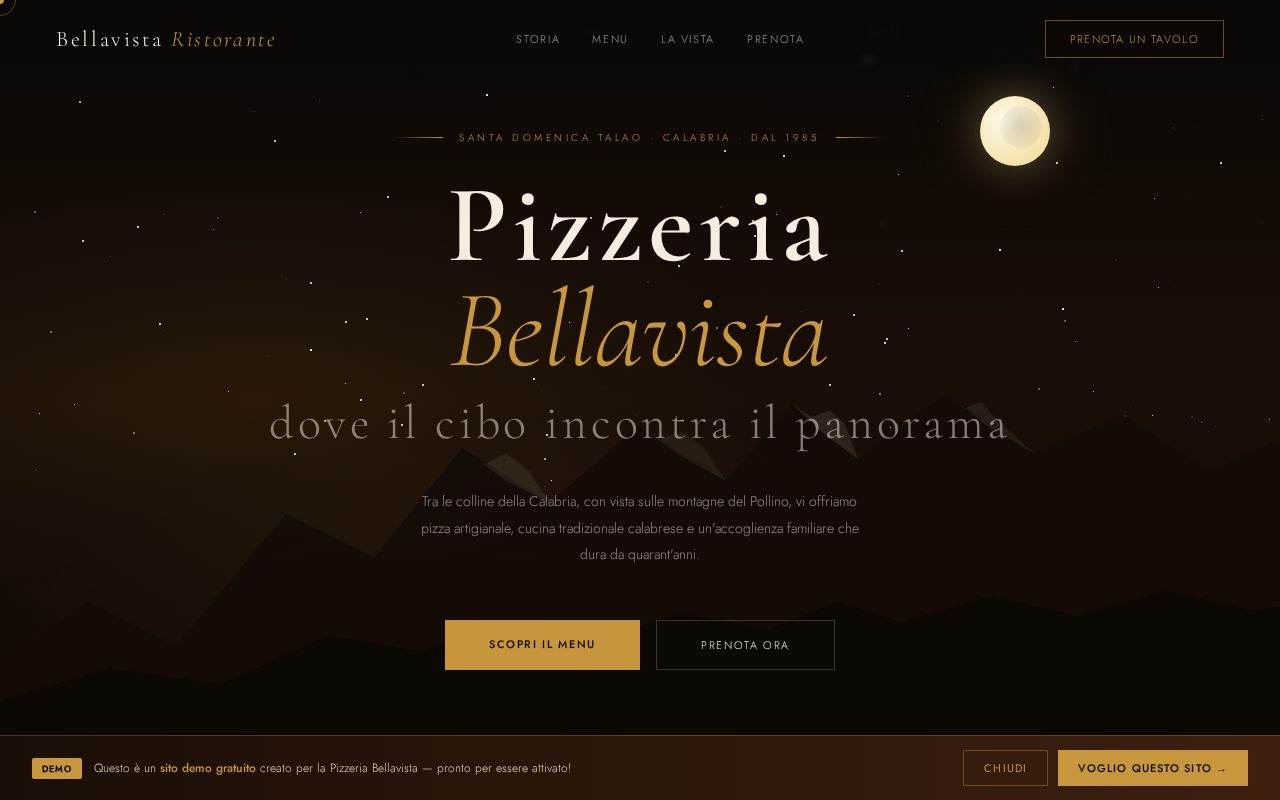
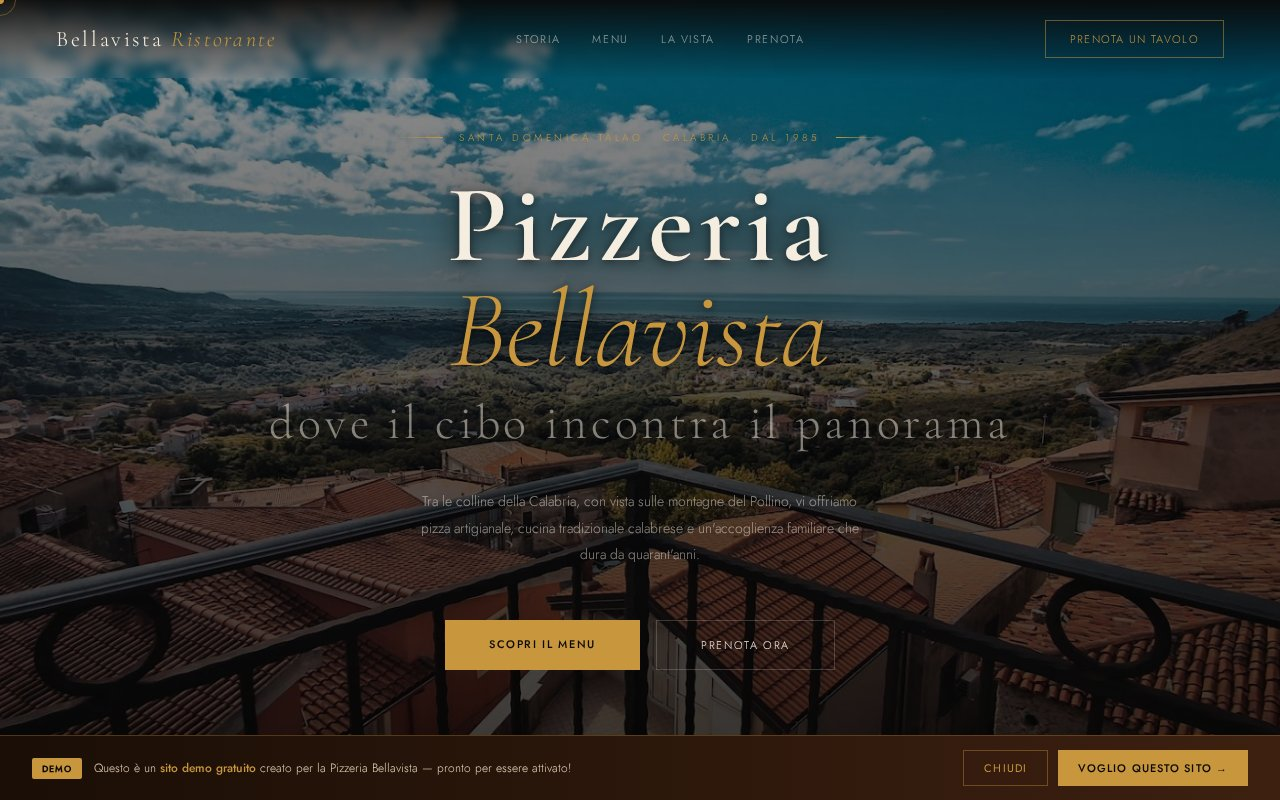
bellavista: real photo hero (Google Places) + ken burns, remove SVG mountain/moon

diff --git a/bellavista/index.html b/bellavista/index.html
@@ -57,11 +57,13 @@ nav{
 }
 .hero-bg{
   position:absolute;inset:0;
-  background:
-    radial-gradient(ellipse 100% 80% at 50% 100%,rgba(139,69,19,.25) 0%,transparent 60%),
-    radial-gradient(ellipse 80% 60% at 20% 50%,rgba(200,150,60,.08) 0%,transparent 50%),
-    linear-gradient(180deg,#0A0806 0%,#1A0E06 50%,#0A0806 100%);
+  background:url('bellavista-photos/hero.jpg') center center/cover no-repeat;
+  will-change:transform;
+  animation:kenburns 25s ease-in-out infinite alternate;
 }
+@keyframes kenburns{0%{transform:scale(1) translate3d(0,0,0)}100%{transform:scale(1.1) translate3d(-1.5%,-1%,0)}}
+@media(prefers-reduced-motion:reduce){.hero-bg{animation:none}}
+.hero-bg::after{content:'';position:absolute;inset:0;background:linear-gradient(to bottom,rgba(0,0,0,.4) 0%,rgba(0,0,0,.6) 40%,rgba(0,0,0,.75) 100%);pointer-events:none}
 
 /* Mountain silhouette SVG */
 .mountain{position:absolute;bottom:0;left:0;right:0;height:55%;pointer-events:none}
@@ -102,8 +104,12 @@ nav{
   font-size:clamp(52px,9vw,110px);
   font-weight:300;line-height:.95;
   margin-bottom:12px;
+  text-shadow:0 4px 30px rgba(0,0,0,.7),0 2px 10px rgba(0,0,0,.5);
   opacity:0;animation:fadeup .9s ease .5s forwards;
 }
+.hero-sub-name{text-shadow:0 4px 30px rgba(0,0,0,.7)}
+.hero-eyebrow{text-shadow:0 2px 15px rgba(0,0,0,.6)}
+.hero-desc{text-shadow:0 2px 15px rgba(0,0,0,.6)}
 .hero-title em{font-style:italic;color:var(--gold);display:block}
 .hero-title strong{font-weight:600;letter-spacing:.05em}
 
@@ -396,21 +402,6 @@ footer{
 <!-- HERO -->
 <section class="hero">
   <div class="hero-bg"></div>
-
-  <!-- Stars -->
-  <div class="stars" id="stars"></div>
-  <div class="moon"></div>
-
-  <!-- Mountain SVG -->
-  <svg class="mountain" viewBox="0 0 1440 400" fill="none" xmlns="http://www.w3.org/2000/svg" preserveAspectRatio="none">
-    <path d="M0 400 L0 280 L80 220 L160 260 L260 140 L340 180 L420 80 L500 130 L580 60 L660 110 L720 40 L780 90 L860 30 L940 85 L1020 50 L1100 100 L1180 65 L1260 120 L1340 80 L1380 95 L1440 70 L1440 400 Z" fill="rgba(20,12,6,0.95)"/>
-    <path d="M0 400 L0 310 L100 280 L200 295 L300 250 L380 265 L460 240 L540 255 L620 230 L700 245 L760 220 L820 238 L900 215 L980 232 L1060 210 L1140 228 L1220 215 L1300 230 L1370 218 L1440 225 L1440 400 Z" fill="rgba(12,8,4,0.98)"/>
-    <!-- Snow caps -->
-    <path d="M420 80 L440 95 L460 85 L480 100 L500 130 L460 110 Z" fill="rgba(245,237,224,.08)"/>
-    <path d="M580 60 L600 72 L620 65 L640 80 L660 110 L620 88 Z" fill="rgba(245,237,224,.06)"/>
-    <path d="M720 40 L738 52 L754 46 L768 58 L780 90 L750 68 Z" fill="rgba(245,237,224,.1)"/>
-    <path d="M860 30 L876 44 L892 38 L904 52 L940 85 L900 62 Z" fill="rgba(245,237,224,.07)"/>
-  </svg>
 
   <div class="hero-content">
     <div class="hero-eyebrow">Santa Domenica Talao · Calabria · Dal 1985</div>
